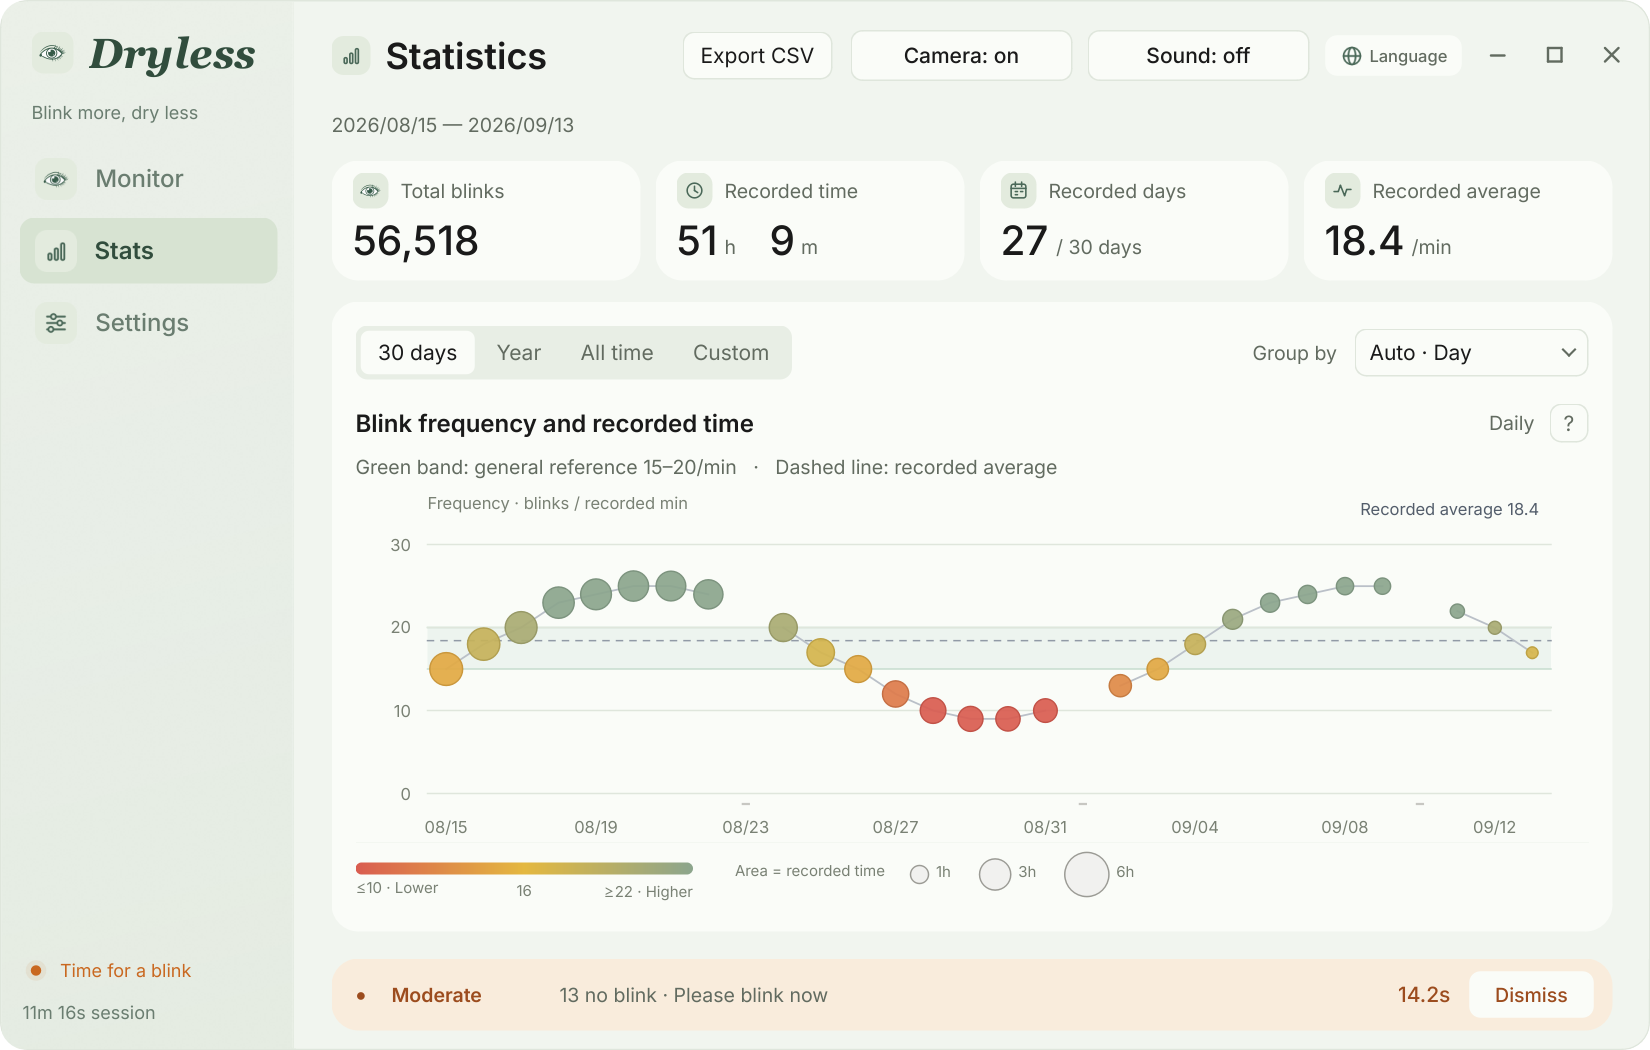
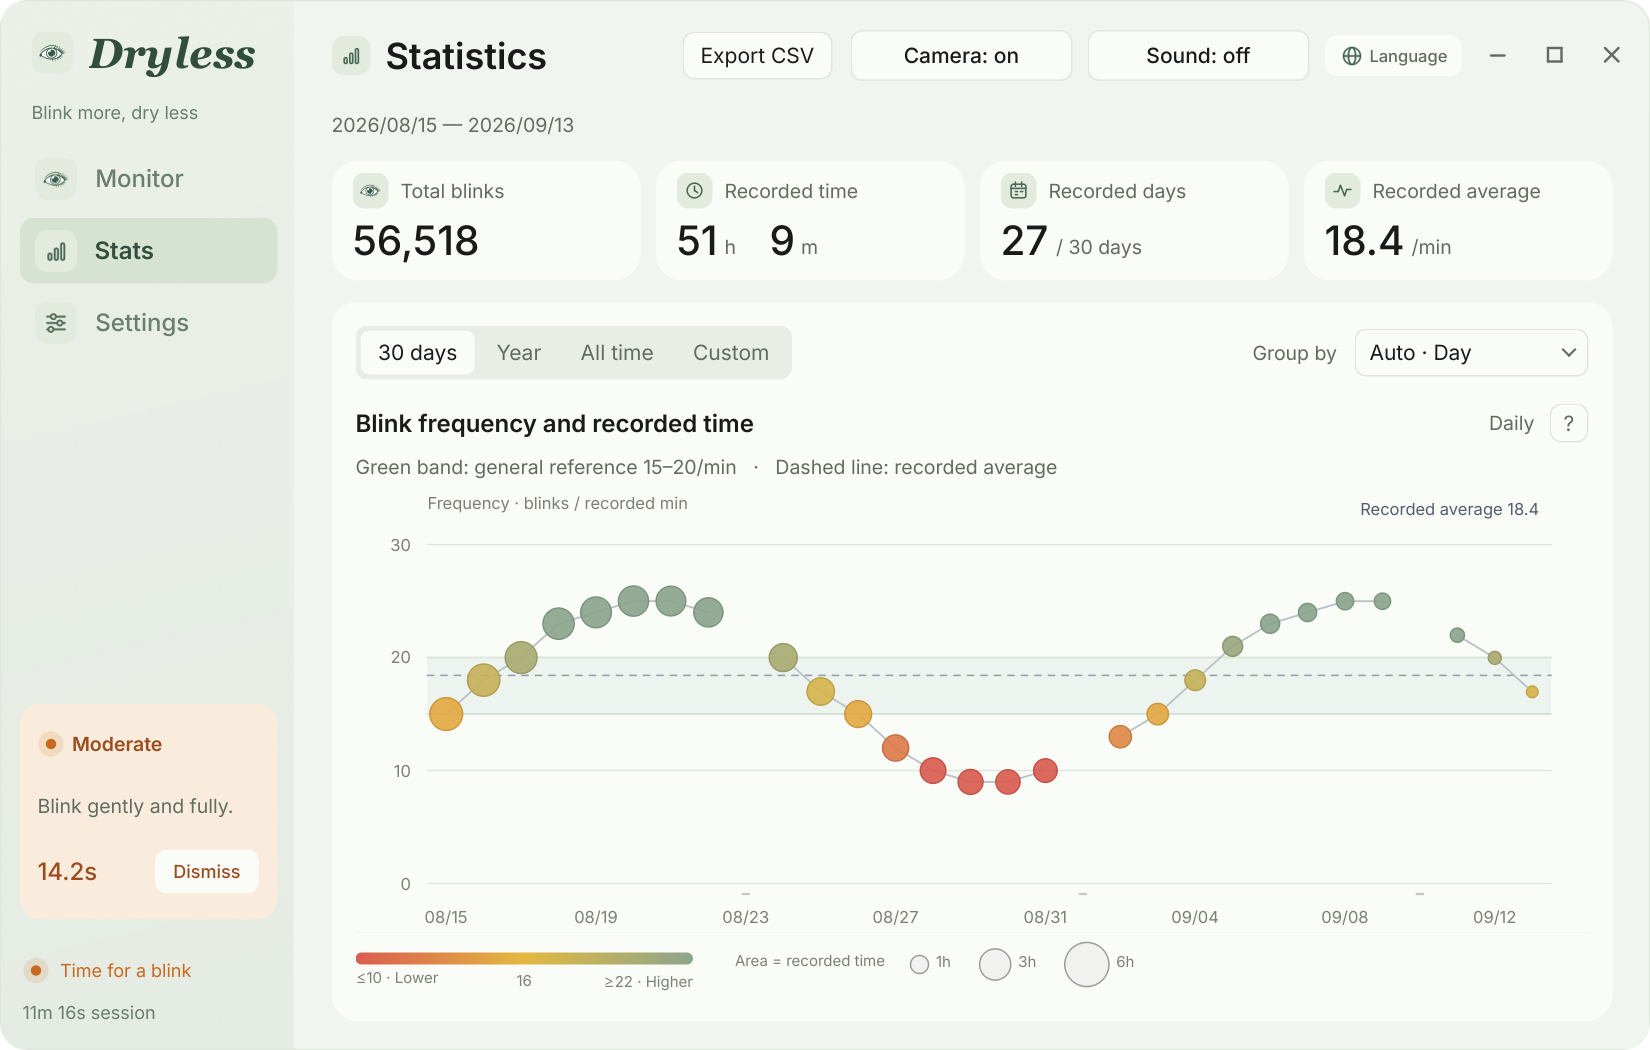
Record rc.7 stable reminder layout verification

diff --git a/docs/START_HERE.md b/docs/START_HERE.md
@@ -3,11 +3,10 @@
 目标：在同一 GitHub Release 发布同一版本号的 Windows 与 Mac 应用。
 功能一致；整体布局一致；窗口、菜单栏、字体回退等细节遵循各自系统。
 
-## Windows 已实施更新（rc.6）
-首页增加最近60秒滑动频率圆环、距上次眨眼进度与真实连续在场的微休息进度；替换原大号累计指标。
-主频率与下方完整分钟采用相同有效秒数口径，三处图表共用柔和红黄绿；缺测留空、真实零保留、不截断到30。
-节律色块及颜色图例不弹悬停窗，精确分钟值可在图内查看。其余沿用rc.5的顶部控件、眼睛状态和Tips。
-见 [release/windows-rc6.md](release/windows-rc6.md)；新增实时指标合同见FEATURE_PARITY.md第3节。F2其余缺口不因此标为完成。
+## Windows 已实施更新（rc.7）
+提醒已从挤压主界面的底部横条移到左侧固定卡片区域；三页、双语、三档提醒及收起/暂停/微休息均不改变页面尺寸。
+保留rc.6的60秒滑动频率、未眨眼进度、连续在场微休息进度与柔和统一配色。
+见 [release/windows-rc7.md](release/windows-rc7.md) 与 [release/windows-rc6.md](release/windows-rc6.md)。F2其余缺口不因此标为完成。
 
 ## 当前接力顺序（2026-09-13初次审查记录）
 0. 暂不合并/替换 main，不公开正式 Release。
@@ -29,7 +28,7 @@ GitHub 分支/PR + 本目录交接文档是共同记录。登录相同 Codex 账
 需要对方处理的问题写在 PR 描述/评论中，明确文件、复现步骤与预期行为。
 不要同时修改同一共享模块；Mac API 适配尽量放独立模块。
 
-版本：version.py；候选：0.2.0-rc.6；正式目标：0.2.0。
+版本：version.py；候选：0.2.0-rc.7；正式目标：0.2.0。
 目前 Mac 尚未验收；不得把 Windows 构建成功称为双平台完成。
 
 ## 当前布局参考（合成测试数据和摄像头占位图）

diff --git a/docs/release/windows-rc7.md b/docs/release/windows-rc7.md
@@ -1,0 +1,15 @@
+# Windows rc.7 · 提醒不挤动页面
+
+底部提示原来加入右侧主布局，出现时扣掉60像素，导致摄像头、指标与图表重新排版。
+现在移入左侧导航下方、底部状态上方的固定空间。只显示/隐藏卡片本身，右侧主布局不再包含提醒条。
+
+- 侧栏提醒卡沿用三档浅色底与呼吸灯，显示等级、简短眨眼提示、实际秒数和收起按钮。
+- 固定卡片尺寸和预留区域；出现、升级、收起、丢脸、暂停和微休息都不移动导航或页面。
+- 三页共用同一卡片；切语言立即更新文字，不改变控件尺寸，不新增悬停窗。
+- 保留本轮收起后不再次展开、下一次眨眼后重新允许的行为；声音与微休息规则不变。
+
+验证：`tools/qa_alert_layout.py` 254项、`tools/qa_ui.py` 186项、`tools/qa_reminders_windows.py` 66项通过。
+包含中英、1100×700和1240×780、监测/统计/设置，比较出现前后摄像头、图表、主容器、导航与底部状态的实际Qt几何位置。
+人工查看中英提醒态截图：[中文](../images/current/monitor-alert-zh.png)、[English](../images/current/monitor-alert-en.png)。截图为合成数据，不含真实摄像头画面。
+`python -B build.py` 与包内 `--self-test` 通过；提交与哈希见windows-rc7-validation.json。
+未重测真人20分钟提醒或Mac真机；本次不改变检测、声音、数据统计规则，也不完成其余F2缺口。

diff --git a/docs/FEATURE_PARITY.md b/docs/FEATURE_PARITY.md
@@ -111,7 +111,9 @@ Windows 的 MediaPipe 与 Mac 的 Vision 可以是不同适配器；提醒、统
   低优先级事件不排队；一个被跳过的提示不会在稍后突然补播。
 - 自动声音遵守总声音开关。播放失败不让检测退出；显示声音不可用，屏幕提醒继续。
 - 屏幕提示不抢焦点、不遮摄像头核心内容、不制造多个窗口；应用在后台时仍应能看见
-  非激活提示。用户收起本轮眨眼横条后，本轮不反复展开；下一次眨眼后重新允许。
+  非激活提示。用户收起本轮眨眼提示后，本轮不反复展开；下一次眨眼后重新允许。
+
+- 提醒的出现、升级、收起不改变主页面和导航布局；窗口内使用固定提醒区域，三页均可见。Windows rc.7已将卡片放入侧栏，Mac可保留适合原生界面的固定位置。
 
 ## 5. 微休息
 
